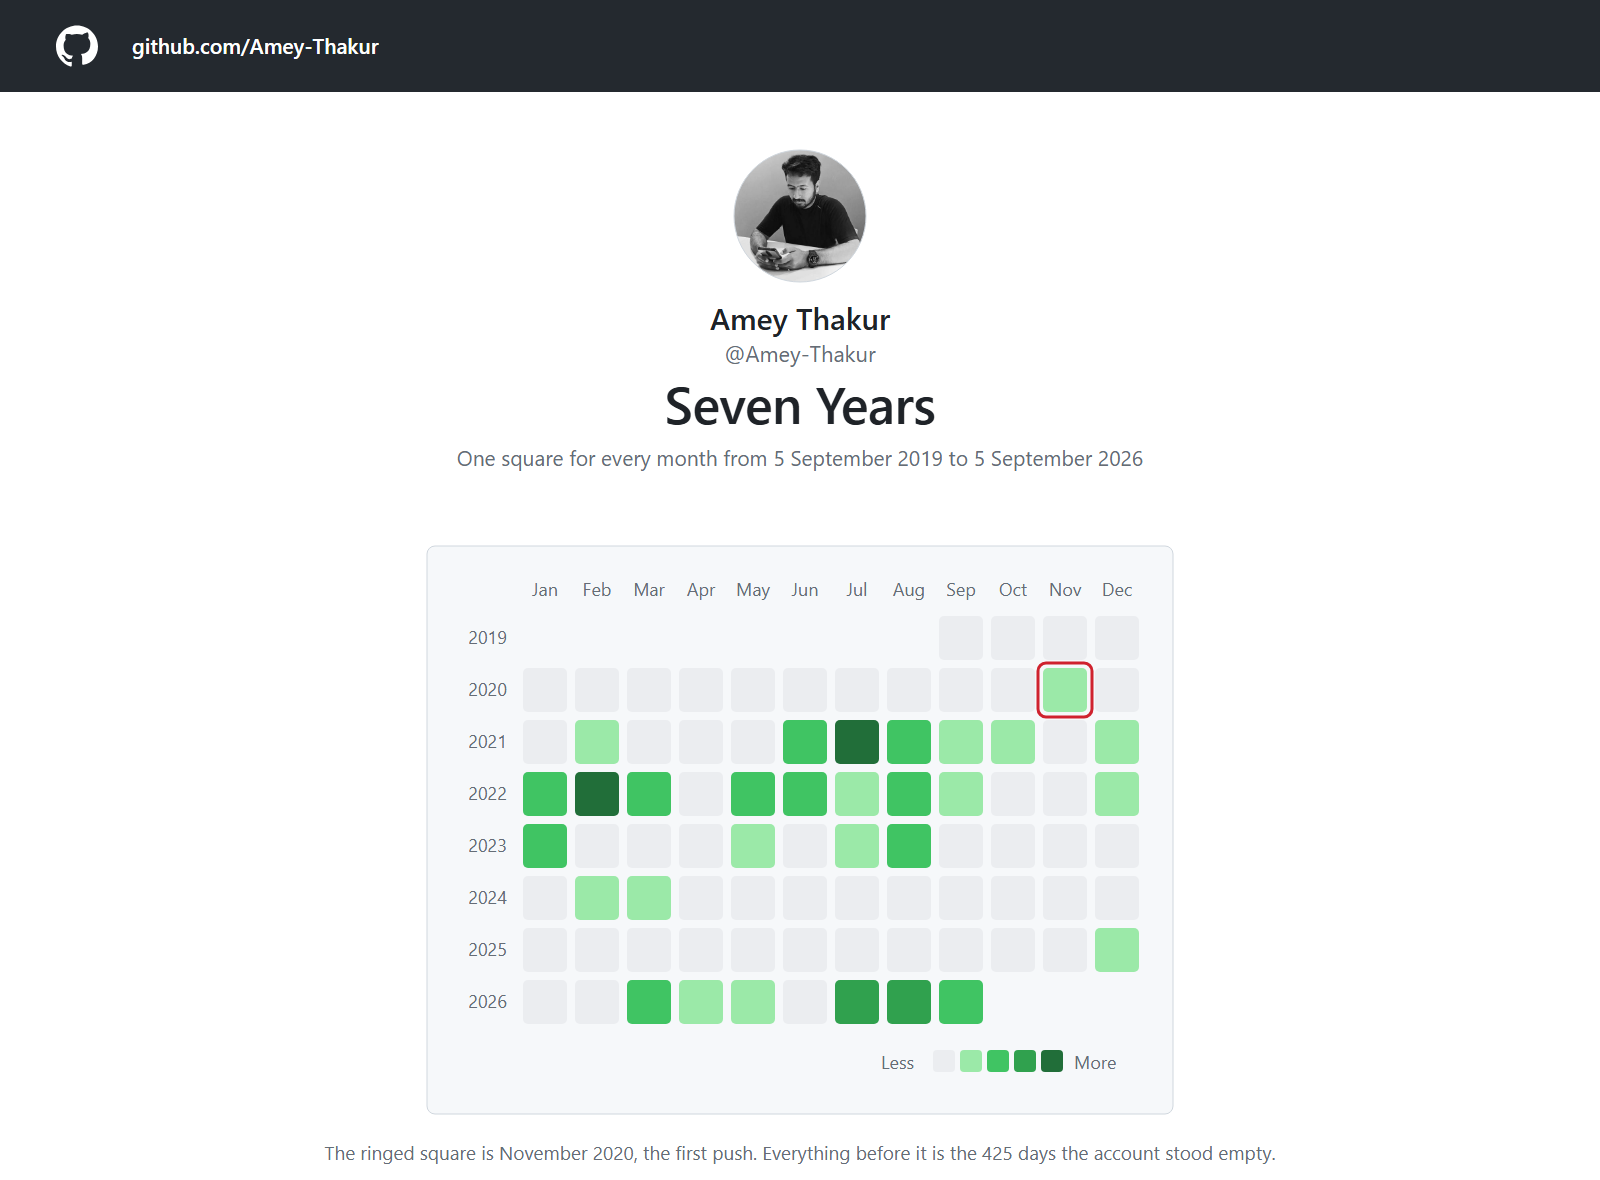
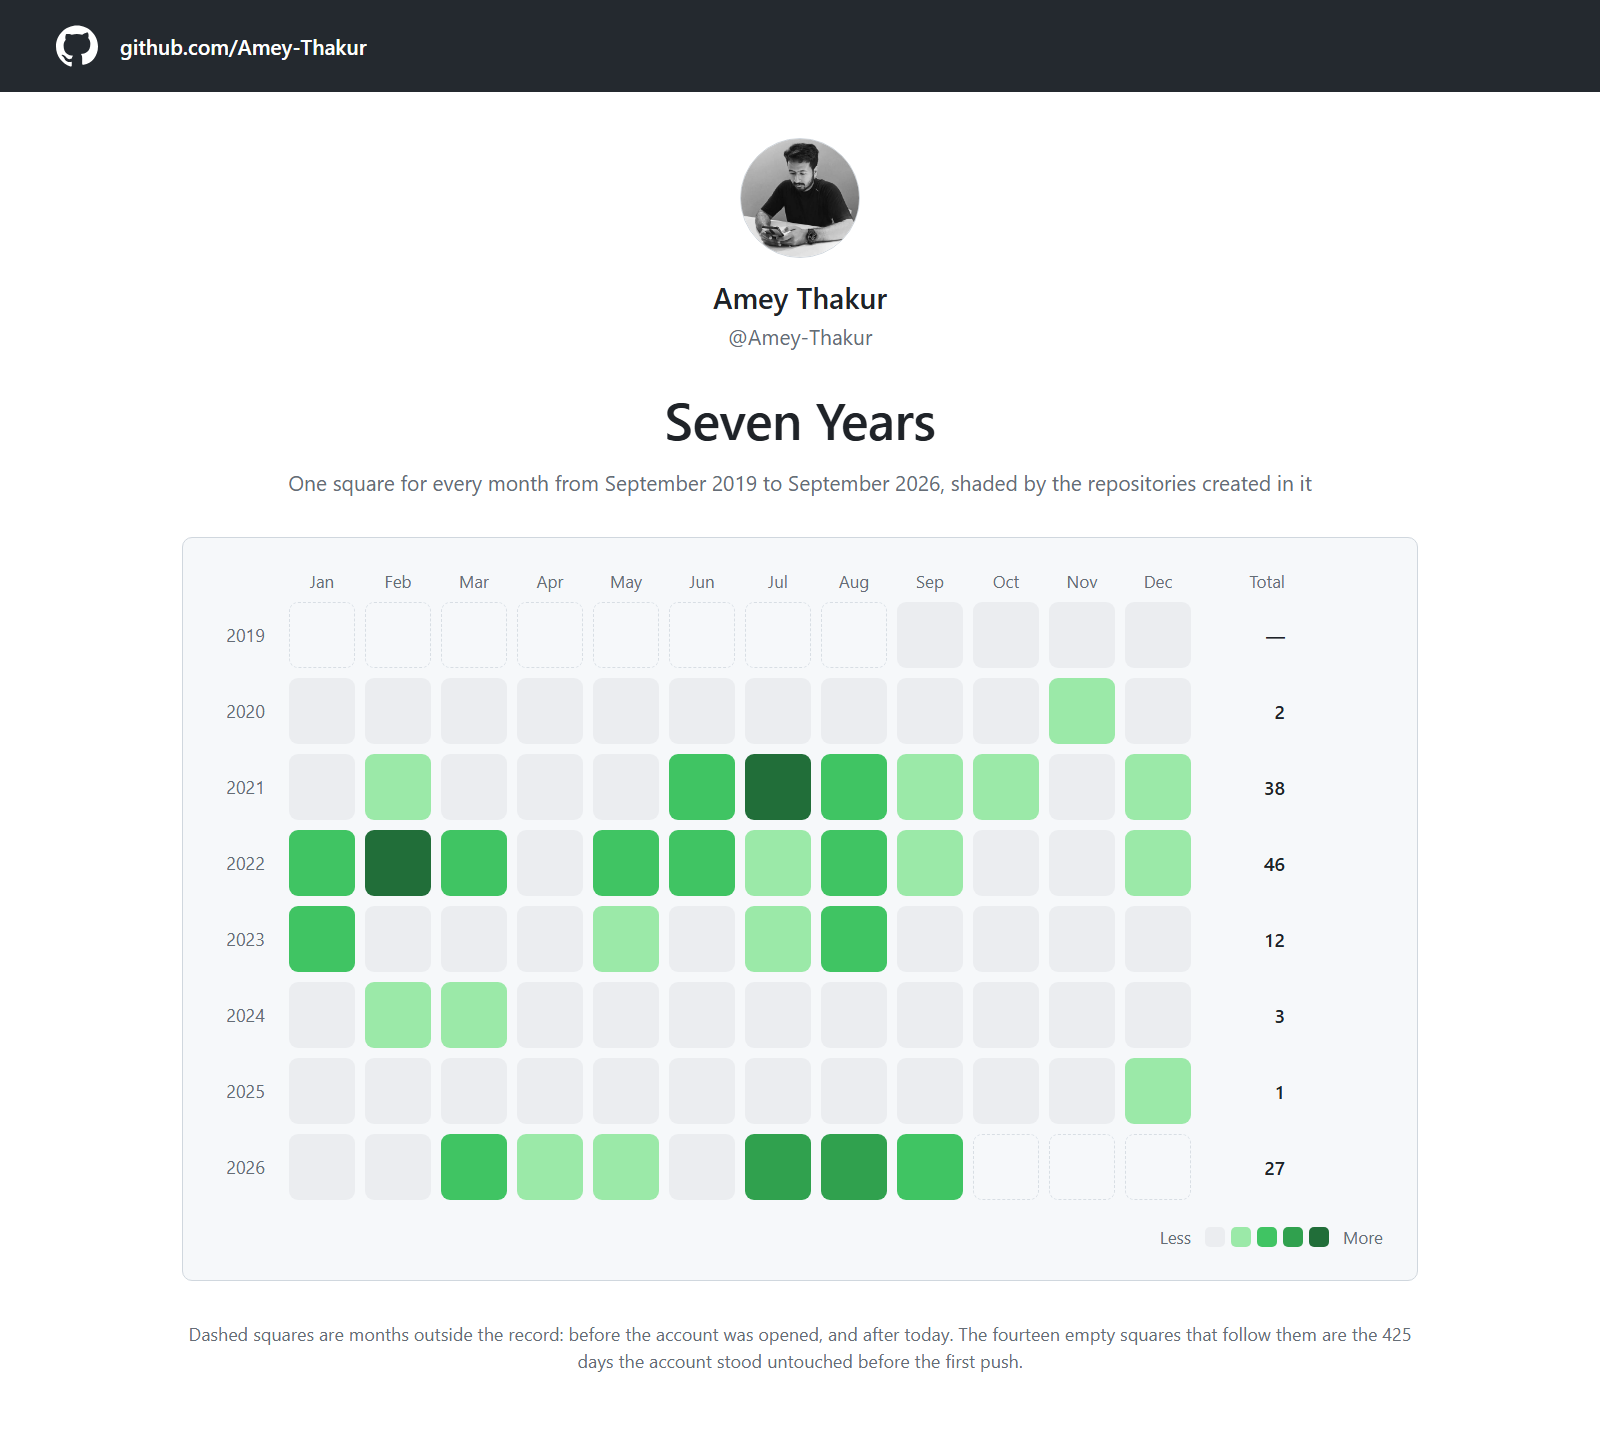
Amey's Arc

diff --git a/content/posts/2026-09-05-seven-years-and-the-work-that-travelled-furthest/index.md b/content/posts/2026-09-05-seven-years-and-the-work-that-travelled-furthest/index.md
@@ -110,6 +110,119 @@ If you are in a year like that now, the useful reframing is that the graph is
 recording your output, not your rate of improvement, and the two are allowed to
 be a year apart.
 
+
+![One square for every repository created, grouped by year, from two in 2020 to forty-six in 2022 and one in 2025.](shape-of-seven-years.png)
+
+<small><em>The same figures as the table above, as proportions. Two peaks, a trough, and a return.</em></small>
+
+## Year by year
+
+The totals hide more than they show. Here is each year on its own, month by
+month, with what the shape of it was actually caused by.
+
+### 2020
+
+![A twelve month grid for 2020, empty except for November, which holds two repositories.](year-2020.png)
+
+The account was fourteen months old before anything went into it. What broke
+the silence was a database-backed booking system with separate user and
+administrator interfaces, and a real-time chat application using AJAX, pushed
+on the same day.
+
+Both were later published as research papers. That is the fact I would send
+back to myself in 2019, because it inverts the reasoning that produced the
+delay. I was holding work back until it was good enough to publish. It was
+already good enough to publish. Waiting did not improve it; it only postponed
+finding out.
+
+### 2021
+
+![A twelve month grid for 2021, busiest in July with twenty-three repositories.](year-2021.png)
+
+Thirty-eight repositories, and the bachelor's went online in bulk: twenty-three
+in July alone, long after the coursework itself was finished.
+
+The more interesting entries are the ones nobody assigned. A neural voice
+cloning studio in February, a reinforcement learning system for trading
+strategies in September, a text summariser in December. This is the year the
+account stopped being a submission folder and started being a body of work,
+and the change was not announced. It shows up only as three squares that do not
+belong to any syllabus.
+
+### 2022
+
+![A twelve month grid for 2022, with twenty repositories in February.](year-2022.png)
+
+The busiest year, and still the one that defines the profile.
+
+February produced the 8086 assembly programs, which remain the most used thing
+here by a wide margin, and twenty repositories went up in that month alone.
+December produced the Computer Engineering index: the least glamorous
+repository on the account and, on reflection, close to the most valuable,
+because it is the reason the dozens of repositories beneath it
+can be found at all. An index is not
+work. It is the thing that makes work findable, and I have never regretted the
+day spent building one.
+
+### 2023
+
+![A twelve month grid for 2023, with activity in January, May, July and August.](year-2023.png)
+
+Twelve repositories, a new country and a new degree.
+
+The M.Eng index went up on 12 January, inside the first fortnight at Windsor,
+before there was a single piece of coursework to put in it. Building the
+container before the contents looks like procrastination and is the opposite:
+everything that followed had somewhere to go on the day it was finished, which
+is exactly what the account itself lacked in 2019.
+
+### 2024
+
+![A twelve month grid for 2024, with three repositories across February and March.](year-2024.png)
+
+Three repositories in a whole year, and the end of the coursework.
+
+March brought zero-shot video generation, the only one of the three that nobody
+assigned, and the most used of the three by a comfortable margin.
+
+I want to resist drawing the obvious moral from that, because the account
+contradicts it: the single most used thing here is a microprocessors lab, which
+was very much assigned. What the three of 2024 actually show is narrower and
+truer. In a thin year, the work that survives being looked at later is the work
+that was chosen rather than required.
+
+### 2025
+
+![A twelve month grid for 2025, empty except for a single repository in December.](year-2025.png)
+
+One repository, in December, and it was this website.
+
+Eleven months of nothing precede it. This is the year I would have hidden a few
+years ago, and it is the one I now think is worth the most to anyone reading.
+Nothing in that stretch was idle. It was reading more slowly, keeping notes
+that were not for publication, and working out what a finished artefact
+actually requires. None of that creates repositories, so none of it appears
+above.
+
+A contribution graph measures publication. Publication is a lagging indicator
+of almost everything that causes it. If your own graph has a year like this in
+it, the graph is not the measurement you think it is.
+
+### 2026
+
+![A twelve month grid for 2026, with activity from March to September.](year-2026.png)
+
+Twenty-seven repositories, and the first year the work has been written down as
+carefully as it was built.
+
+Kaggle in March, NotebookLab in April, the Claude certification guide in July,
+and in September a fix merged into one of Google's own projects. The difference
+between this year and 2022 is not volume, and 2022 is still ahead on that. It
+is that the work now arrives with its reasoning attached, and that the thing
+built and the account of why it was built go up together.
+
+That is the whole of what the quiet year bought.
+
 ## What travelled furthest, and why
 
 The natural assumption is that the work which reaches people will be the work
